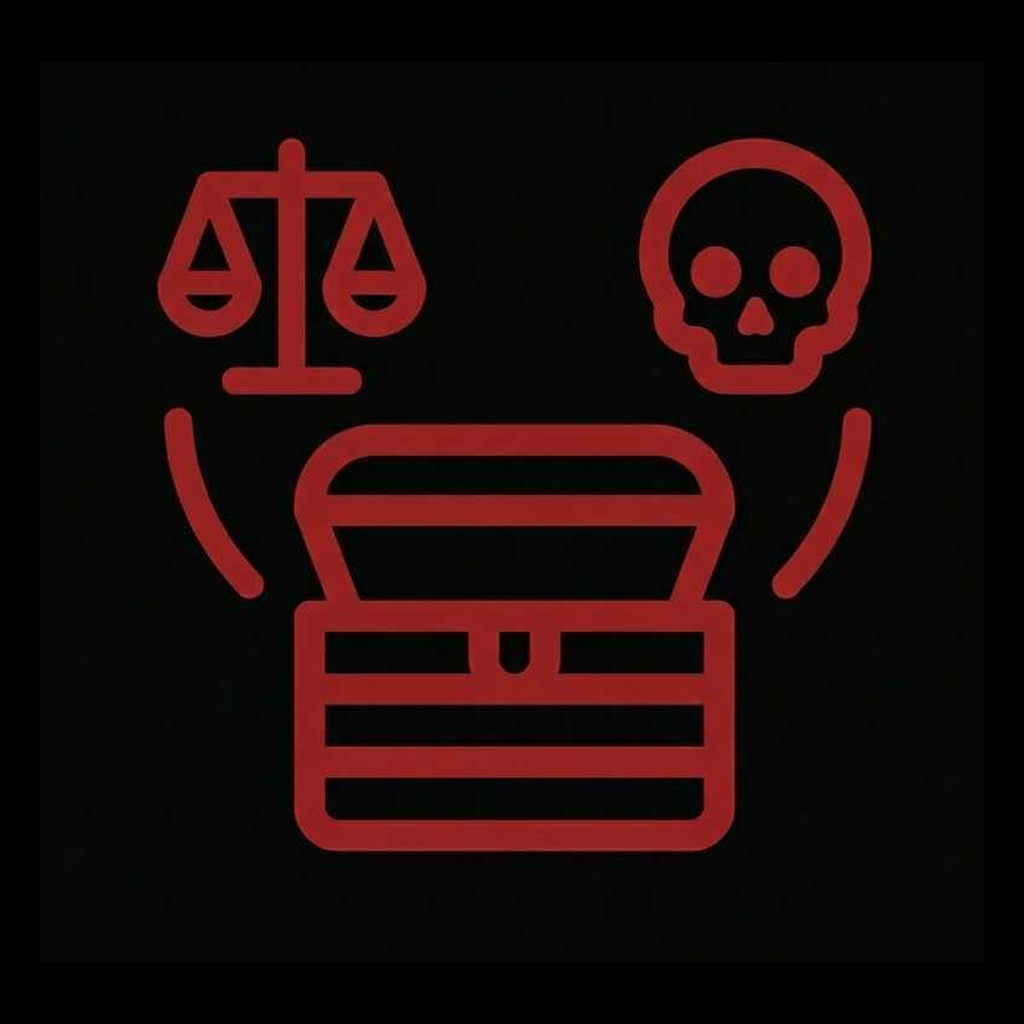
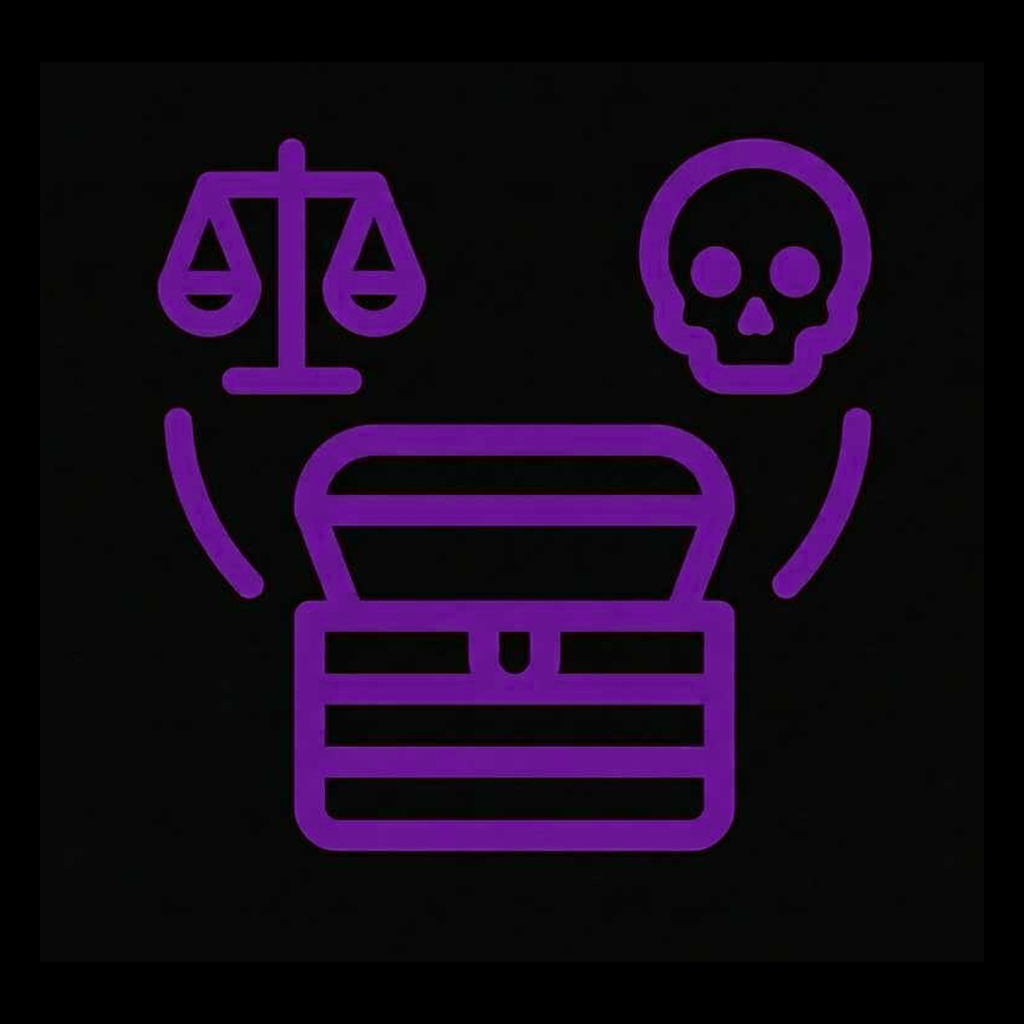
feat: terrain-aware pool filtering, healing potion tiering, bulk provisions, pool exclusions
- Healing potion picks now scale with cache tier (higher tiers favour stronger potions)
- Bulk provisions (rations, feed, ammo) appear as stacks of 10-50 instead of singles
- Terrain-bound items are exclusive to their tagged terrains; untagged items remain universal
- Poison potions excluded from random cache rolls (Cursewright-only)
- QM overlay gems/treasure/trinkets no longer leak into mundane trade-goods pool
- Compendium index now fetches flags for terrain/meta checks
- Tests added for CacheGenerator and ItemPoolResolver changes

Changed region(s): [[0.1562, 0.125, 0.7188, 0.8438], [0.625, 0.125, 0.875, 0.4062], [0.75, 0.375, 0.875, 0.5938]]

diff --git a/tests/item-pool-resolver.test.js b/tests/item-pool-resolver.test.js
@@ -44,6 +44,33 @@ describe("ItemPoolResolver._matchesSlotType", () => {
         expect(ItemPoolResolver._matchesSlotType({ type: "loot" }, "mundane")).toBe(true);
     });
 
+    it("rejects QM gemstones from mundane slot", () => {
+        const entry = {
+            type: "loot",
+            system: { type: { value: "gem" } },
+            flags: {
+                "ionrift-quartermaster": {
+                    terrain: ["catacombs"],
+                    gemMeta: { tier: "Chips & Fragments" }
+                }
+            }
+        };
+        expect(ItemPoolResolver._matchesSlotType(entry, "mundane")).toBe(false);
+    });
+
+    it("rejects QM trinkets from mundane slot", () => {
+        const entry = {
+            type: "loot",
+            flags: {
+                "ionrift-quartermaster": {
+                    terrain: ["ruins"],
+                    coreMeta: { category: "Trinkets" }
+                }
+            }
+        };
+        expect(ItemPoolResolver._matchesSlotType(entry, "mundane")).toBe(false);
+    });
+
     it("accepts tools for mundane slot", () => {
         expect(ItemPoolResolver._matchesSlotType({ type: "tool" }, "mundane")).toBe(true);
     });
@@ -378,6 +405,33 @@ describe("ItemPoolResolver._isPlaceholderPoolEntry", () => {
     });
 });
 
+// ── _isGmPlacedPoisonPotion ───────────────────────────────────────────────
+
+describe("ItemPoolResolver._isGmPlacedPoisonPotion", () => {
+
+    it("flags standard and tiered poison potions", () => {
+        expect(ItemPoolResolver._isGmPlacedPoisonPotion({ name: "Potion of Poison" })).toBe(true);
+        expect(ItemPoolResolver._isGmPlacedPoisonPotion({ name: "Potion of Greater Poison" })).toBe(true);
+        expect(ItemPoolResolver._isGmPlacedPoisonPotion({ name: "Potion of Superior Poison" })).toBe(true);
+        expect(ItemPoolResolver._isGmPlacedPoisonPotion({ name: "Potion of Supreme Poison" })).toBe(true);
+    });
+
+    it("allows healing potions and other consumables", () => {
+        expect(ItemPoolResolver._isGmPlacedPoisonPotion({ name: "Potion of Healing" })).toBe(false);
+        expect(ItemPoolResolver._isGmPlacedPoisonPotion({ name: "Potion of Greater Healing" })).toBe(false);
+        expect(ItemPoolResolver._isGmPlacedPoisonPotion({ name: "Basic Poison (vial)" })).toBe(false);
+    });
+
+    it("excludes poison potions from the loot pool via _isExcluded", () => {
+        const entry = {
+            type: "consumable",
+            name: "Potion of Poison",
+            system: { type: { value: "poison" }, price: 100, weight: 0.5, rarity: "uncommon" }
+        };
+        expect(ItemPoolResolver._isExcluded(entry)).toBe(true);
+    });
+});
+
 // ── _isZeroDataPlaceholder ───────────────────────────────────────────────
 
 describe("ItemPoolResolver._isZeroDataPlaceholder", () => {
@@ -463,6 +517,37 @@ describe("ItemPoolResolver._isZeroDataPlaceholder", () => {
         expect(ItemPoolResolver._isExcluded(belt)).toBe(true);
         expect(ItemPoolResolver._isExcluded(headband)).toBe(false);
         expect(ItemPoolResolver._isExcluded(deck)).toBe(false);
+    });
+});
+
+// ── _eligibleForTheme ────────────────────────────────────────────────────
+
+describe("ItemPoolResolver._eligibleForTheme", () => {
+
+    it("allows universal items in any terrain", () => {
+        const entry = { name: "Torch", flags: {} };
+        expect(ItemPoolResolver._eligibleForTheme(entry, "dungeon")).toBe(true);
+        expect(ItemPoolResolver._eligibleForTheme(entry, "catacombs")).toBe(true);
+    });
+
+    it("allows terrain-bound items only in matching terrain", () => {
+        const entry = {
+            name: "Bone-White Calcite Shard",
+            flags: { "ionrift-quartermaster": { terrain: ["catacombs"] } }
+        };
+        expect(ItemPoolResolver._eligibleForTheme(entry, "catacombs")).toBe(true);
+        expect(ItemPoolResolver._eligibleForTheme(entry, "dungeon")).toBe(false);
+        expect(ItemPoolResolver._eligibleForTheme(entry, "ruins")).toBe(false);
+    });
+
+    it("excludes ruins items from forest caches", () => {
+        const entry = {
+            name: "Weathered Feldspar Crystal",
+            flags: { "ionrift-quartermaster": { terrain: ["ruins"] } }
+        };
+        expect(ItemPoolResolver._eligibleForTheme(entry, "ruins")).toBe(true);
+        expect(ItemPoolResolver._eligibleForTheme(entry, "forest")).toBe(false);
+        expect(ItemPoolResolver._eligibleForTheme(entry, "desert")).toBe(false);
     });
 });
 

diff --git a/scripts/services/ItemPoolResolver.js b/scripts/services/ItemPoolResolver.js
@@ -66,12 +66,15 @@ export class ItemPoolResolver {
 
         // Deduplicate by name (prefer compendium version)
         const seen = new Set();
-        return merged.filter(item => {
+        const deduped = merged.filter(item => {
             const key = item.name.toLowerCase();
             if (seen.has(key)) return false;
             seen.add(key);
             return true;
         });
+
+        if (!theme) return deduped;
+        return deduped.filter(item => this._eligibleForTheme(item, theme));
     }
 
     /**
@@ -150,7 +153,7 @@ export class ItemPoolResolver {
             try {
                 // Use getIndex for lightweight query
                 const index = await pack.getIndex({ fields: [
-                    "name", "type", "img", "system.price", "system.rarity",
+                    "name", "type", "img", "flags", "system.price", "system.rarity",
                     "system.type", "system.weight", "system.description"
                 ]});
 
@@ -164,6 +167,7 @@ export class ItemPoolResolver {
                         name: entry.name,
                         type: entry.type,
                         img: entry.img,
+                        flags: entry.flags ?? {},
                         price: this._extractPrice(entry),
                         rarity: entry.system?.rarity ?? "common",
                         weight: this._extractWeight(entry),
@@ -185,6 +189,46 @@ export class ItemPoolResolver {
         }
 
         return results;
+    }
+
+    /** @param {object} entry */
+    static _terrainTags(entry) {
+        return entry.flags?.["ionrift-quartermaster"]?.terrain ?? [];
+    }
+
+    /** @param {object} entry */
+    static _isTerrainBound(entry) {
+        return this._terrainTags(entry).length > 0;
+    }
+
+    /**
+     * Terrain-bound items are exclusive to their listed terrains. Items with
+     * no terrain flag are universal and eligible everywhere.
+     *
+     * @param {object} entry
+     * @param {string} theme
+     */
+    static _eligibleForTheme(entry, theme) {
+        if (!theme) return true;
+        if (!this._isTerrainBound(entry)) return true;
+        return this._terrainTags(entry).includes(theme);
+    }
+
+    /**
+     * QM overlay gems, treasure, and trinkets belong in dedicated cache slots.
+     * When overlay packs are enabled in lootPoolSources they must not leak into
+     * the generic mundane/trade-goods pool.
+     *
+     * @param {object} entry
+     */
+    static _isQmDedicatedPickerItem(entry) {
+        const qm = entry.flags?.["ionrift-quartermaster"];
+        if (!qm) return false;
+        if (qm.gemMeta?.tier) return true;
+        const cat = qm.coreMeta?.category;
+        if (cat === "Treasure" || cat === "Trinkets") return true;
+        if ((entry.system?.type?.value ?? "") === "gem") return true;
+        return false;
     }
 
     /**
@@ -211,7 +255,10 @@ export class ItemPoolResolver {
                 // Equipment only qualifies if it has NO rarity (common/empty)
                 // to prevent wondrous items like Decanter of Endless Water
                 // from appearing in the mundane loot pool.
-                if (type === "loot" || type === "tool") return true;
+                if (type === "loot" || type === "tool") {
+                    if (this._isQmDedicatedPickerItem(entry)) return false;
+                    return true;
+                }
                 if (type === "equipment") {
                     const rarity = (entry.system?.rarity ?? "").toLowerCase();
                     return !rarity || rarity === "common" || rarity === "none";
@@ -250,7 +297,19 @@ export class ItemPoolResolver {
         if (this._isContainerContentOnly(entry, nameLower)) return true;
         if (this._isTrapOrHazard(entry)) return true;
         if (this._isZeroDataPlaceholder(entry)) return true;
+        if (this._isGmPlacedPoisonPotion(entry, nameLower)) return true;
         return false;
+    }
+
+    /**
+     * Poison potions are Cursewright-only. They must never surface from random
+     * cache pool rolls; the GM places them via the cursed pool or recipes.
+     *
+     * @param {object} entry
+     * @param {string} [nameLower]
+     */
+    static _isGmPlacedPoisonPotion(entry, nameLower = (entry.name || "").trim().toLowerCase()) {
+        return /^potion of (?:greater |superior |supreme )?poison$/i.test(nameLower);
     }
 
     /**

diff --git a/scripts/services/CacheGenerator.js b/scripts/services/CacheGenerator.js
@@ -9,6 +9,7 @@ import { ItemMaskingHelper } from "./ItemMaskingHelper.js";
 import { SignatureLedger } from "./SignatureLedger.js";
 import { ScrollForge } from "./ScrollForge.js";
 import { TerrainDataRegistry } from "./TerrainDataRegistry.js";
+import { PotionEnrichment } from "./PotionEnrichment.js";
 import { Logger, MODULE_LABEL } from "../_logger.js";
 
 const MODULE_ID = "ionrift-quartermaster";
@@ -1252,12 +1253,15 @@ export class CacheGenerator {
         // 70% potion bias when potions exist
         const SA = game.ionrift?.library?.system;
         const situational = SA?.getSituationalConsumables?.() ?? new Set();
+        const cacheTier = tierData._tier ?? 1;
 
         function _weightedPick(arr) {
             if (!arr.length) return null;
             const tickets = [];
             for (const item of arr) {
-                const count = situational.has((item.name ?? "").toLowerCase()) ? 1 : 3;
+                let count = situational.has((item.name ?? "").toLowerCase()) ? 1 : 3;
+                const healBias = CacheGenerator._healingPotionPickWeight(item.name, cacheTier);
+                count = Math.max(1, Math.round(count * healBias));
                 for (let i = 0; i < count; i++) tickets.push(item);
             }
             return tickets[Math.floor(Math.random() * tickets.length)];
@@ -1282,6 +1286,50 @@ export class CacheGenerator {
             sourceCompendium: pick.sourceCompendium,
             _compendiumId: pick._compendiumId
         };
+    }
+
+    /**
+     * Ticket multiplier for healing potions in consumable picks. Higher cache
+     * tiers favour stronger healing tiers; non-healing items return 1.
+     *
+     * @param {string} name
+     * @param {number} cacheTier
+     * @returns {number}
+     */
+    static _healingPotionPickWeight(name, cacheTier) {
+        const tierData = PotionEnrichment.getTierData(name);
+        if (!tierData) return 1;
+
+        const price = tierData.price ?? 50;
+        const weightsByCacheTier = {
+            1: { 50: 6, 100: 2, 250: 0.5, 500: 0.25 },
+            2: { 50: 2, 100: 4, 250: 2, 500: 1 },
+            3: { 50: 1, 100: 2, 250: 5, 500: 3 },
+            4: { 50: 0.5, 100: 1, 250: 3, 500: 6 }
+        };
+        const table = weightsByCacheTier[cacheTier] ?? weightsByCacheTier[1];
+        return table[price] ?? 1;
+    }
+
+    /**
+     * Cheap provisions (feed, rations, ammo) that should appear as large
+     * stacks rather than single specimens.
+     *
+     * @param {object} item
+     * @returns {boolean}
+     */
+    static _isBulkFillerItem(item) {
+        const type = item.type ?? "";
+        const subtype = (item.subtype ?? "").toLowerCase();
+        const name = (item.name ?? "").toLowerCase().trim();
+        const unitPrice = item.price ?? 0;
+
+        if (type !== "consumable") return false;
+        if (subtype === "potion" || subtype === "poison" || subtype === "scroll") return false;
+
+        if (["food", "drink", "ammo", "ammunition"].includes(subtype)) return unitPrice < 1;
+        if (/^(feed|rations?|arrows?|bolts?|needles?|sling bullets?)\b/.test(name)) return unitPrice < 1;
+        return unitPrice > 0 && unitPrice < 0.1;
     }
 
     /**
@@ -1407,6 +1455,13 @@ export class CacheGenerator {
     static _resolveQuantity(item, opts = {}) {
         // Never stack these item classes
         if (item.isSignature || item.spellName) return 1;
+
+        // Bulk provisions: large stacks, ignore compendium rarity typos and
+        // weight caps (feed and rations are loose goods, not single specimens).
+        if (this._isBulkFillerItem(item)) {
+            return 10 + Math.floor(Math.random() * 41);
+        }
+
         const rarity = (item.rarity ?? "common").toLowerCase();
         if (rarity !== "common" && rarity !== "none" && rarity !== "") return 1;
         if (item._qmKind === "gemstones" || isQmPackRole(item.sourceCompendium, "gemstones")) return 1;

diff --git a/tests/cache-generator.test.js b/tests/cache-generator.test.js
@@ -99,6 +99,33 @@ describe("CacheGenerator._resolveQuantity", () => {
         expect(CacheGenerator._resolveQuantity({ price: 0 })).toBe(1);
     });
 
+    it("stacks bulk filler consumables like feed in large quantities", () => {
+        const feed = {
+            name: "Feed",
+            type: "consumable",
+            subtype: "food",
+            price: 0.05,
+            rarity: "common"
+        };
+        for (let i = 0; i < 50; i++) {
+            const qty = CacheGenerator._resolveQuantity(feed);
+            expect(qty).toBeGreaterThanOrEqual(10);
+            expect(qty).toBeLessThanOrEqual(50);
+        }
+    });
+
+    it("stacks bulk filler even when compendium rarity is wrong", () => {
+        const feed = {
+            name: "Feed",
+            type: "consumable",
+            subtype: "food",
+            price: 0.05,
+            rarity: "uncommon"
+        };
+        const qty = CacheGenerator._resolveQuantity(feed);
+        expect(qty).toBeGreaterThanOrEqual(10);
+    });
+
     it("returns > 1 for very cheap items (< 0.05 gp)", () => {
         // Run multiple times since there's randomness
         let sawMultiple = false;
@@ -302,6 +329,27 @@ describe("CacheGenerator._terrainWeightedPick", () => {
         for (let i = 0; i < 200; i++) {
             expect(CacheGenerator._terrainWeightedPick(pool, "desert").name).toBe("Core Chalice");
         }
+    });
+});
+
+// ── _healingPotionPickWeight ─────────────────────────────────────────────
+
+describe("CacheGenerator._healingPotionPickWeight", () => {
+
+    it("favours base healing at tier 1", () => {
+        const base = CacheGenerator._healingPotionPickWeight("Potion of Healing", 1);
+        const greater = CacheGenerator._healingPotionPickWeight("Potion of Greater Healing", 1);
+        expect(base).toBeGreaterThan(greater);
+    });
+
+    it("favours stronger healing at tier 3", () => {
+        const base = CacheGenerator._healingPotionPickWeight("Potion of Healing", 3);
+        const superior = CacheGenerator._healingPotionPickWeight("Potion of Superior Healing", 3);
+        expect(superior).toBeGreaterThan(base);
+    });
+
+    it("returns 1 for non-healing items", () => {
+        expect(CacheGenerator._healingPotionPickWeight("Antitoxin", 3)).toBe(1);
     });
 });
 